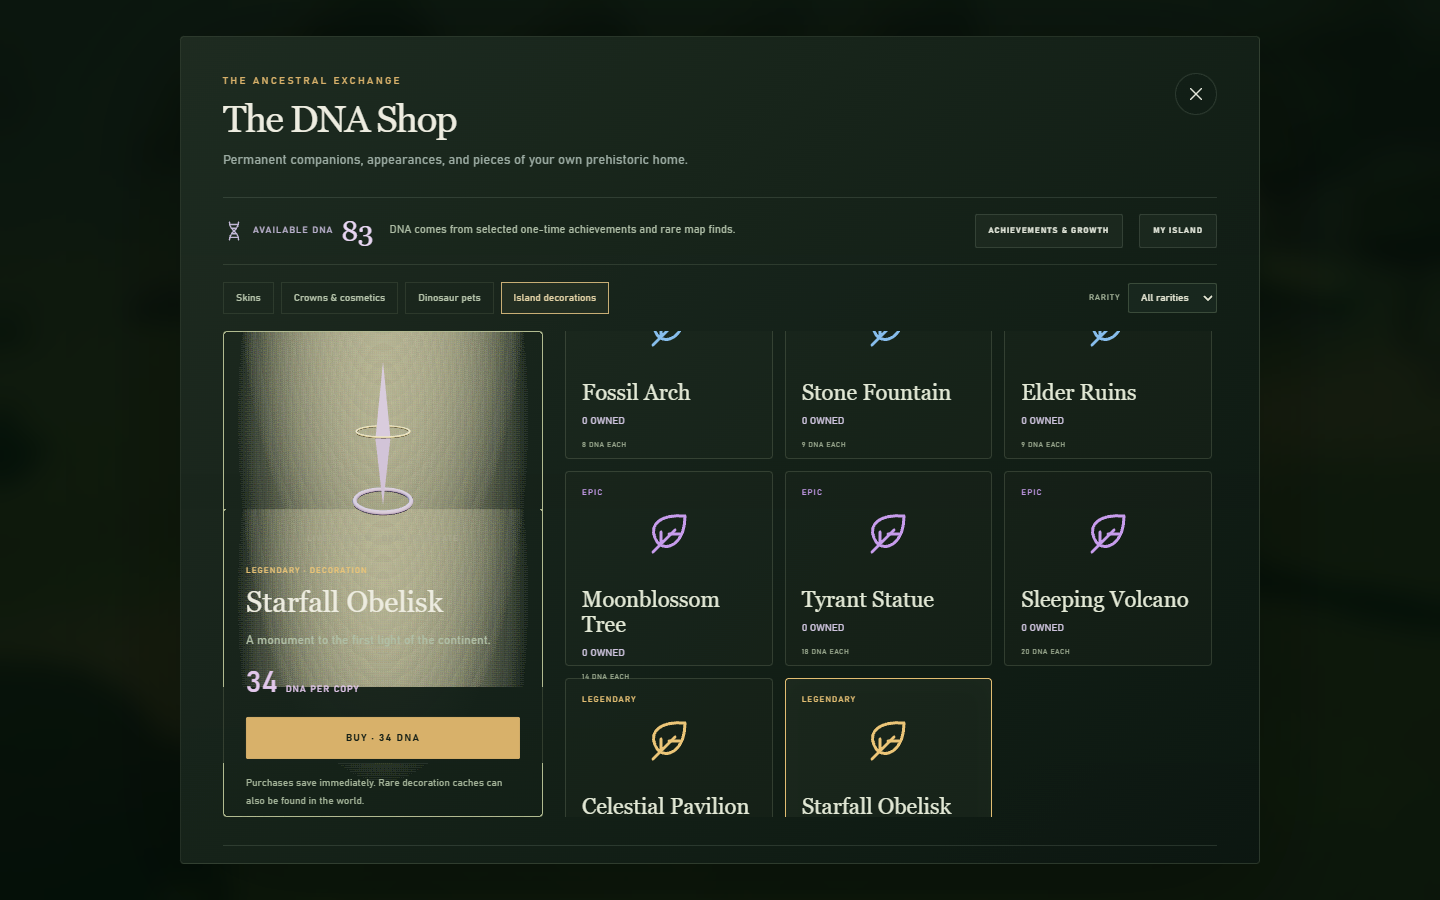
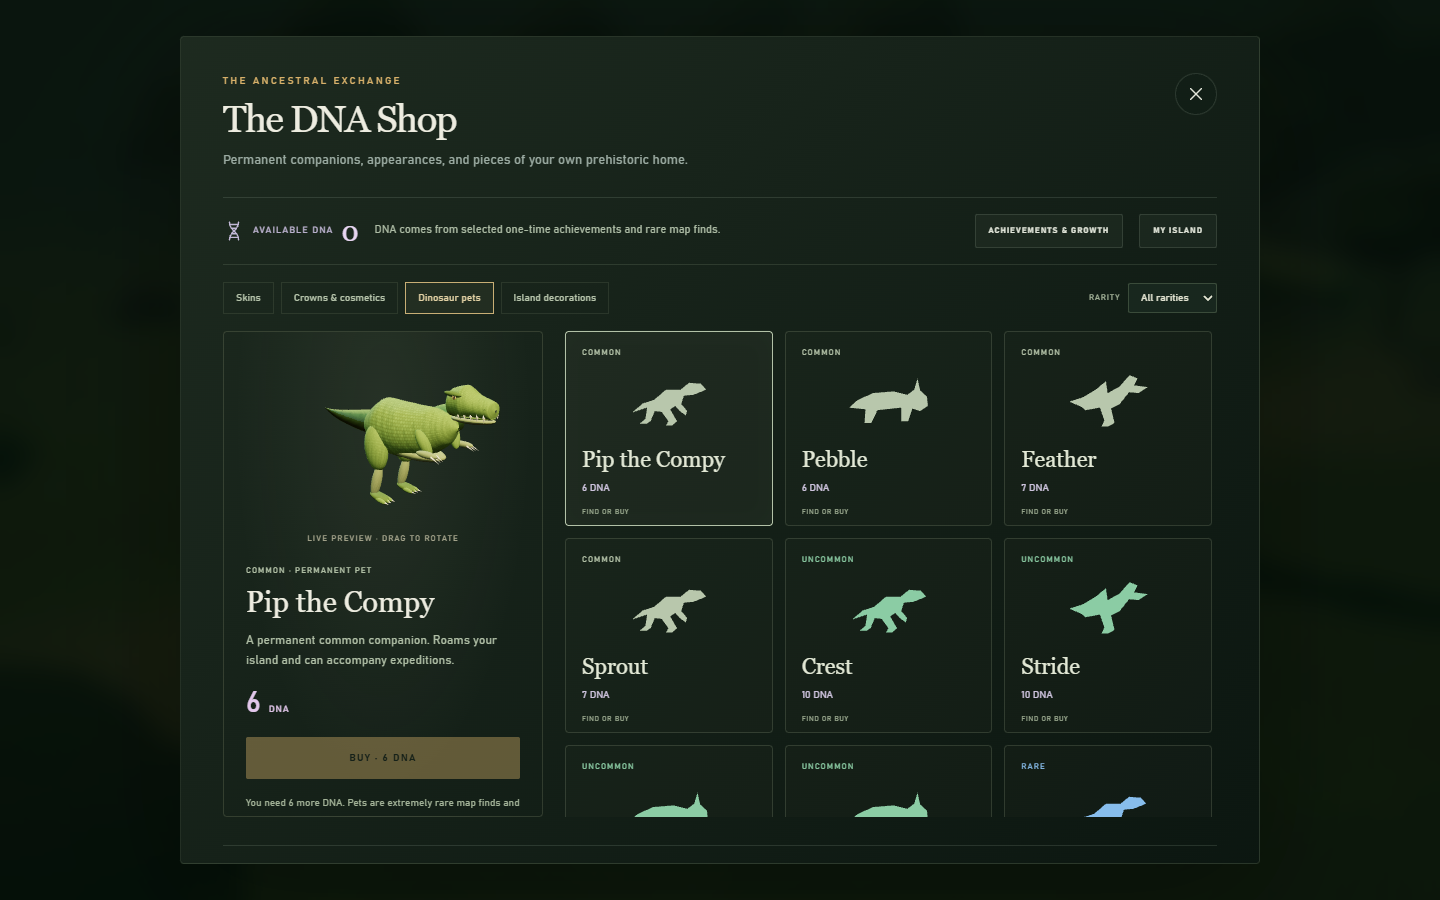
Record passing collection pickup checks and shop preview

diff --git a/docs/VALIDATION.md b/docs/VALIDATION.md
@@ -6,7 +6,7 @@
 | --- | --- |
 | Node gameplay, audio, collection transactions and migration | 57 passed |
 | Existing Chrome gameplay integration | 22 passed, zero runtime errors |
-| New collection browser integration | See artifacts/collections-qa.json |
+| New collection browser integration | 9 passed, zero runtime errors |
 | Actual packaged Windows desktop | 12 passed, zero runtime errors |
 | Self-extracting v0.3.0 portable build | 5 passed, zero runtime errors |
 | Production build and Windows portable packaging | Passed |
